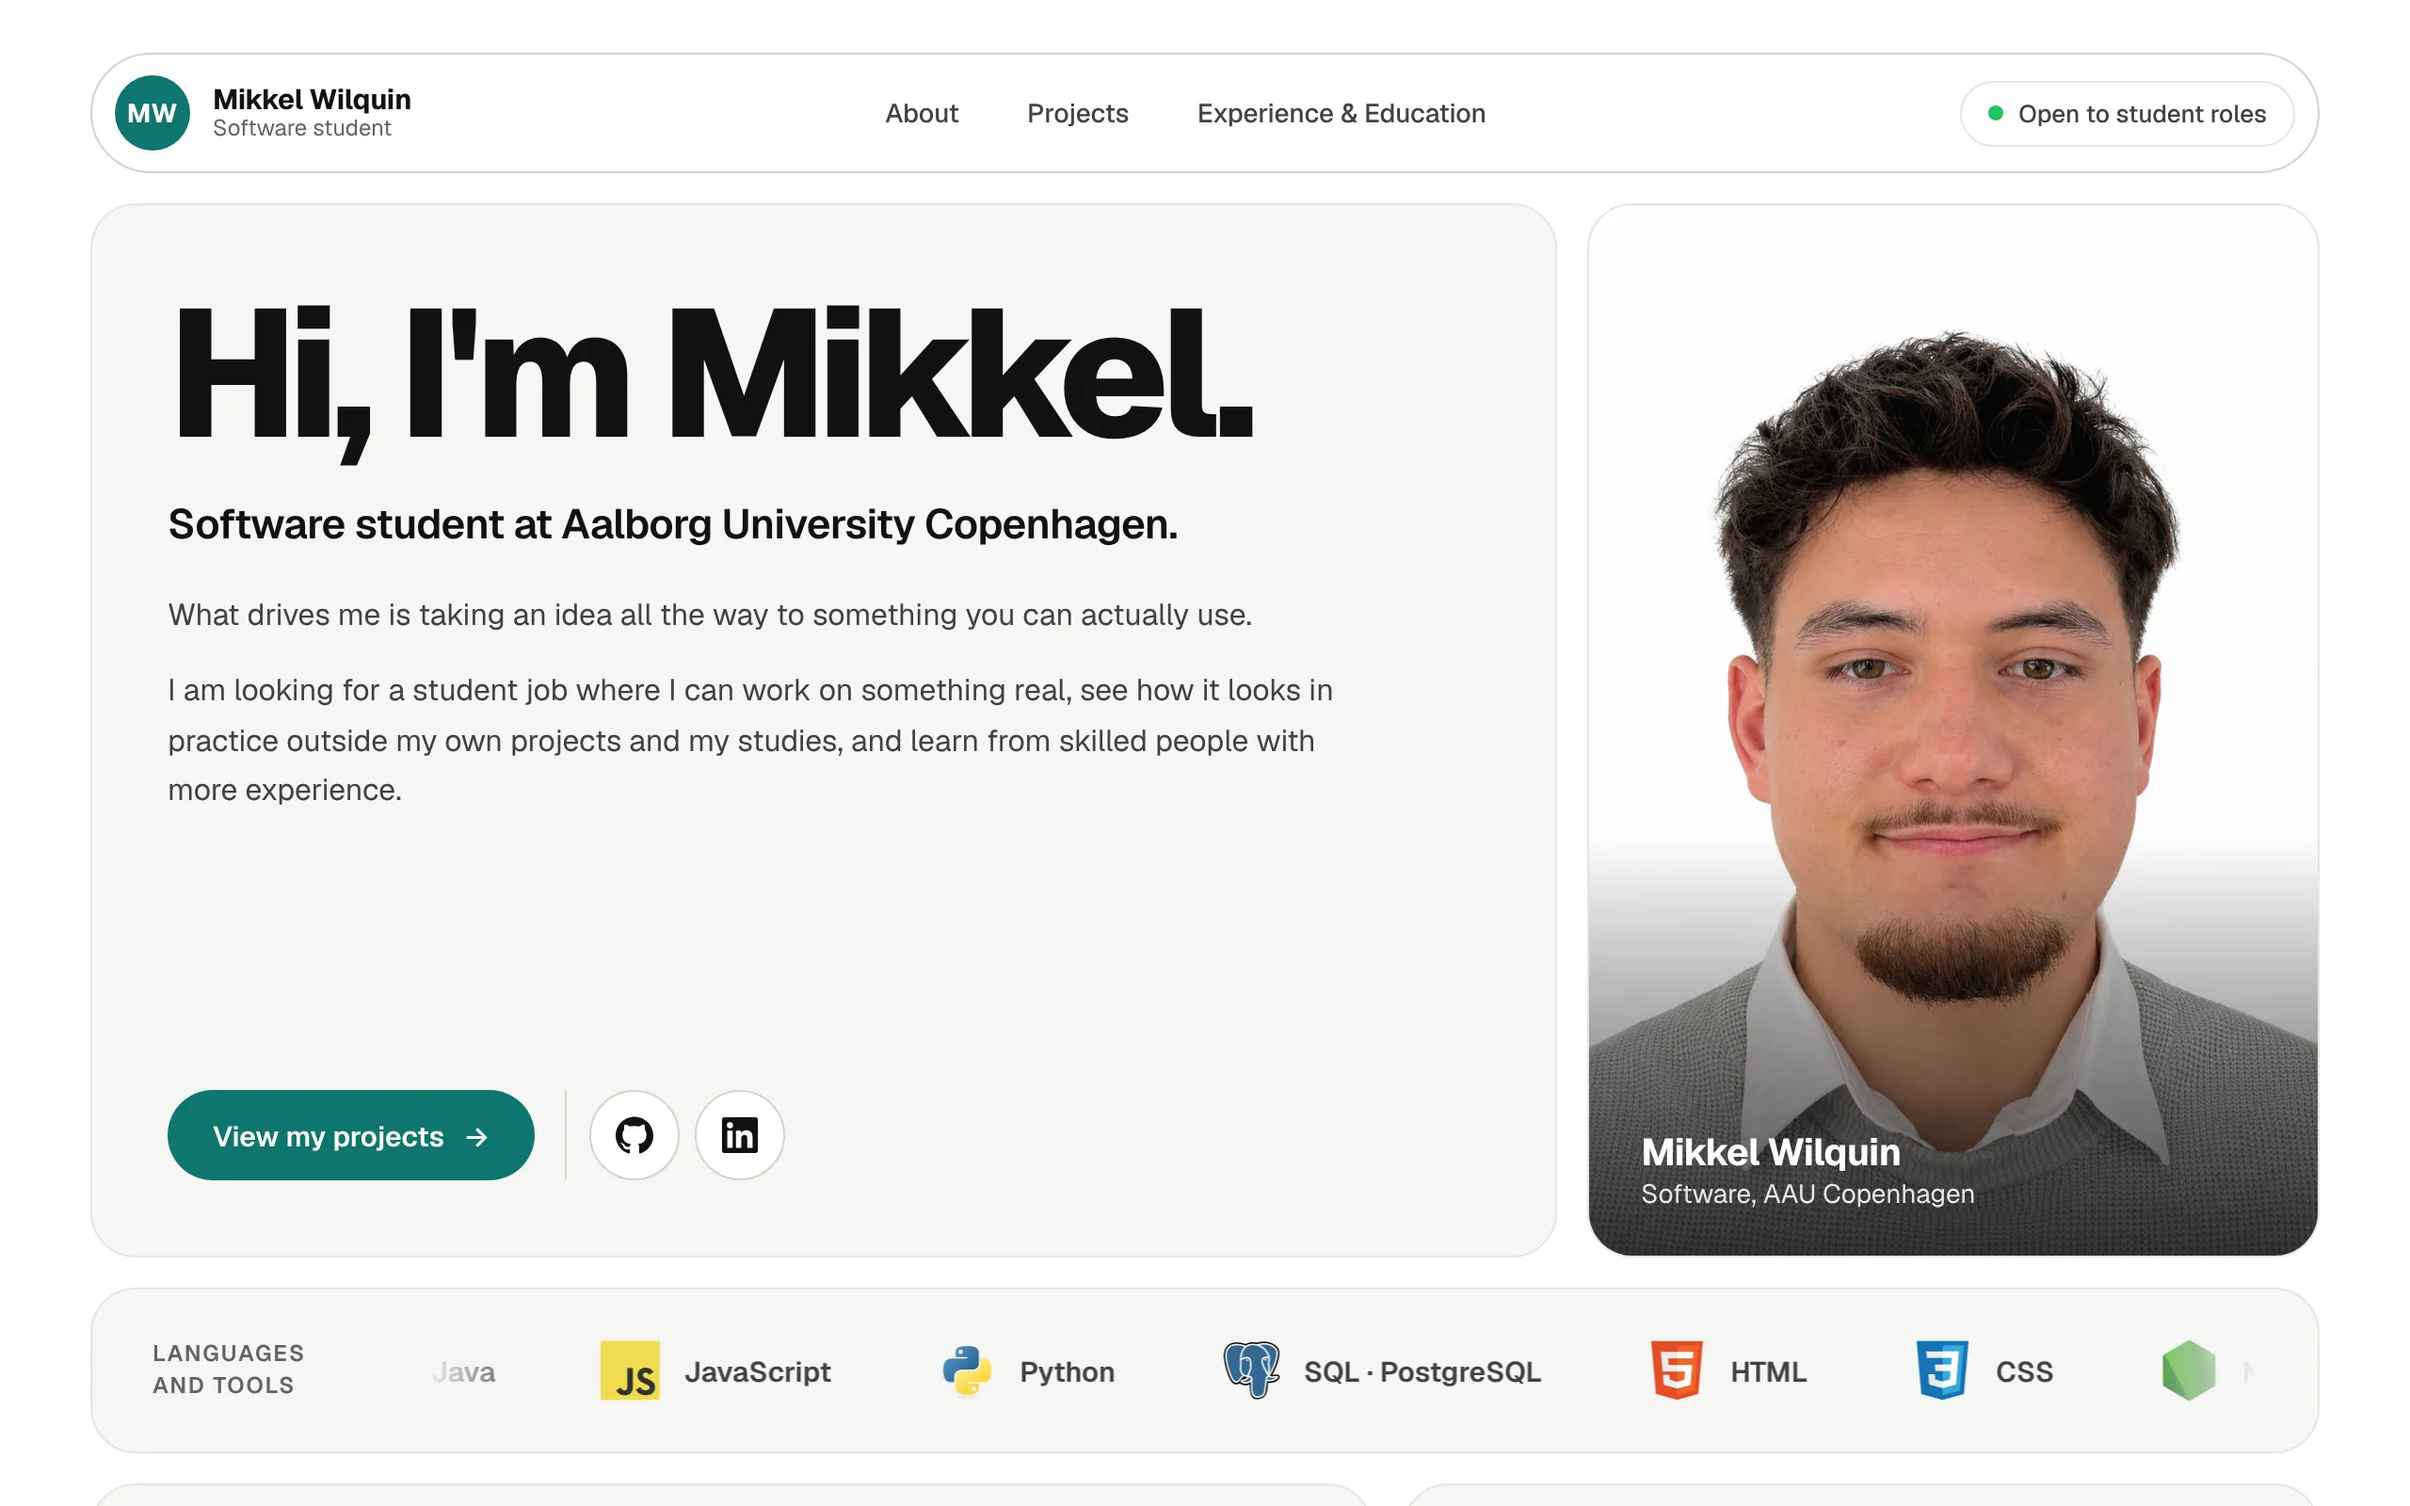
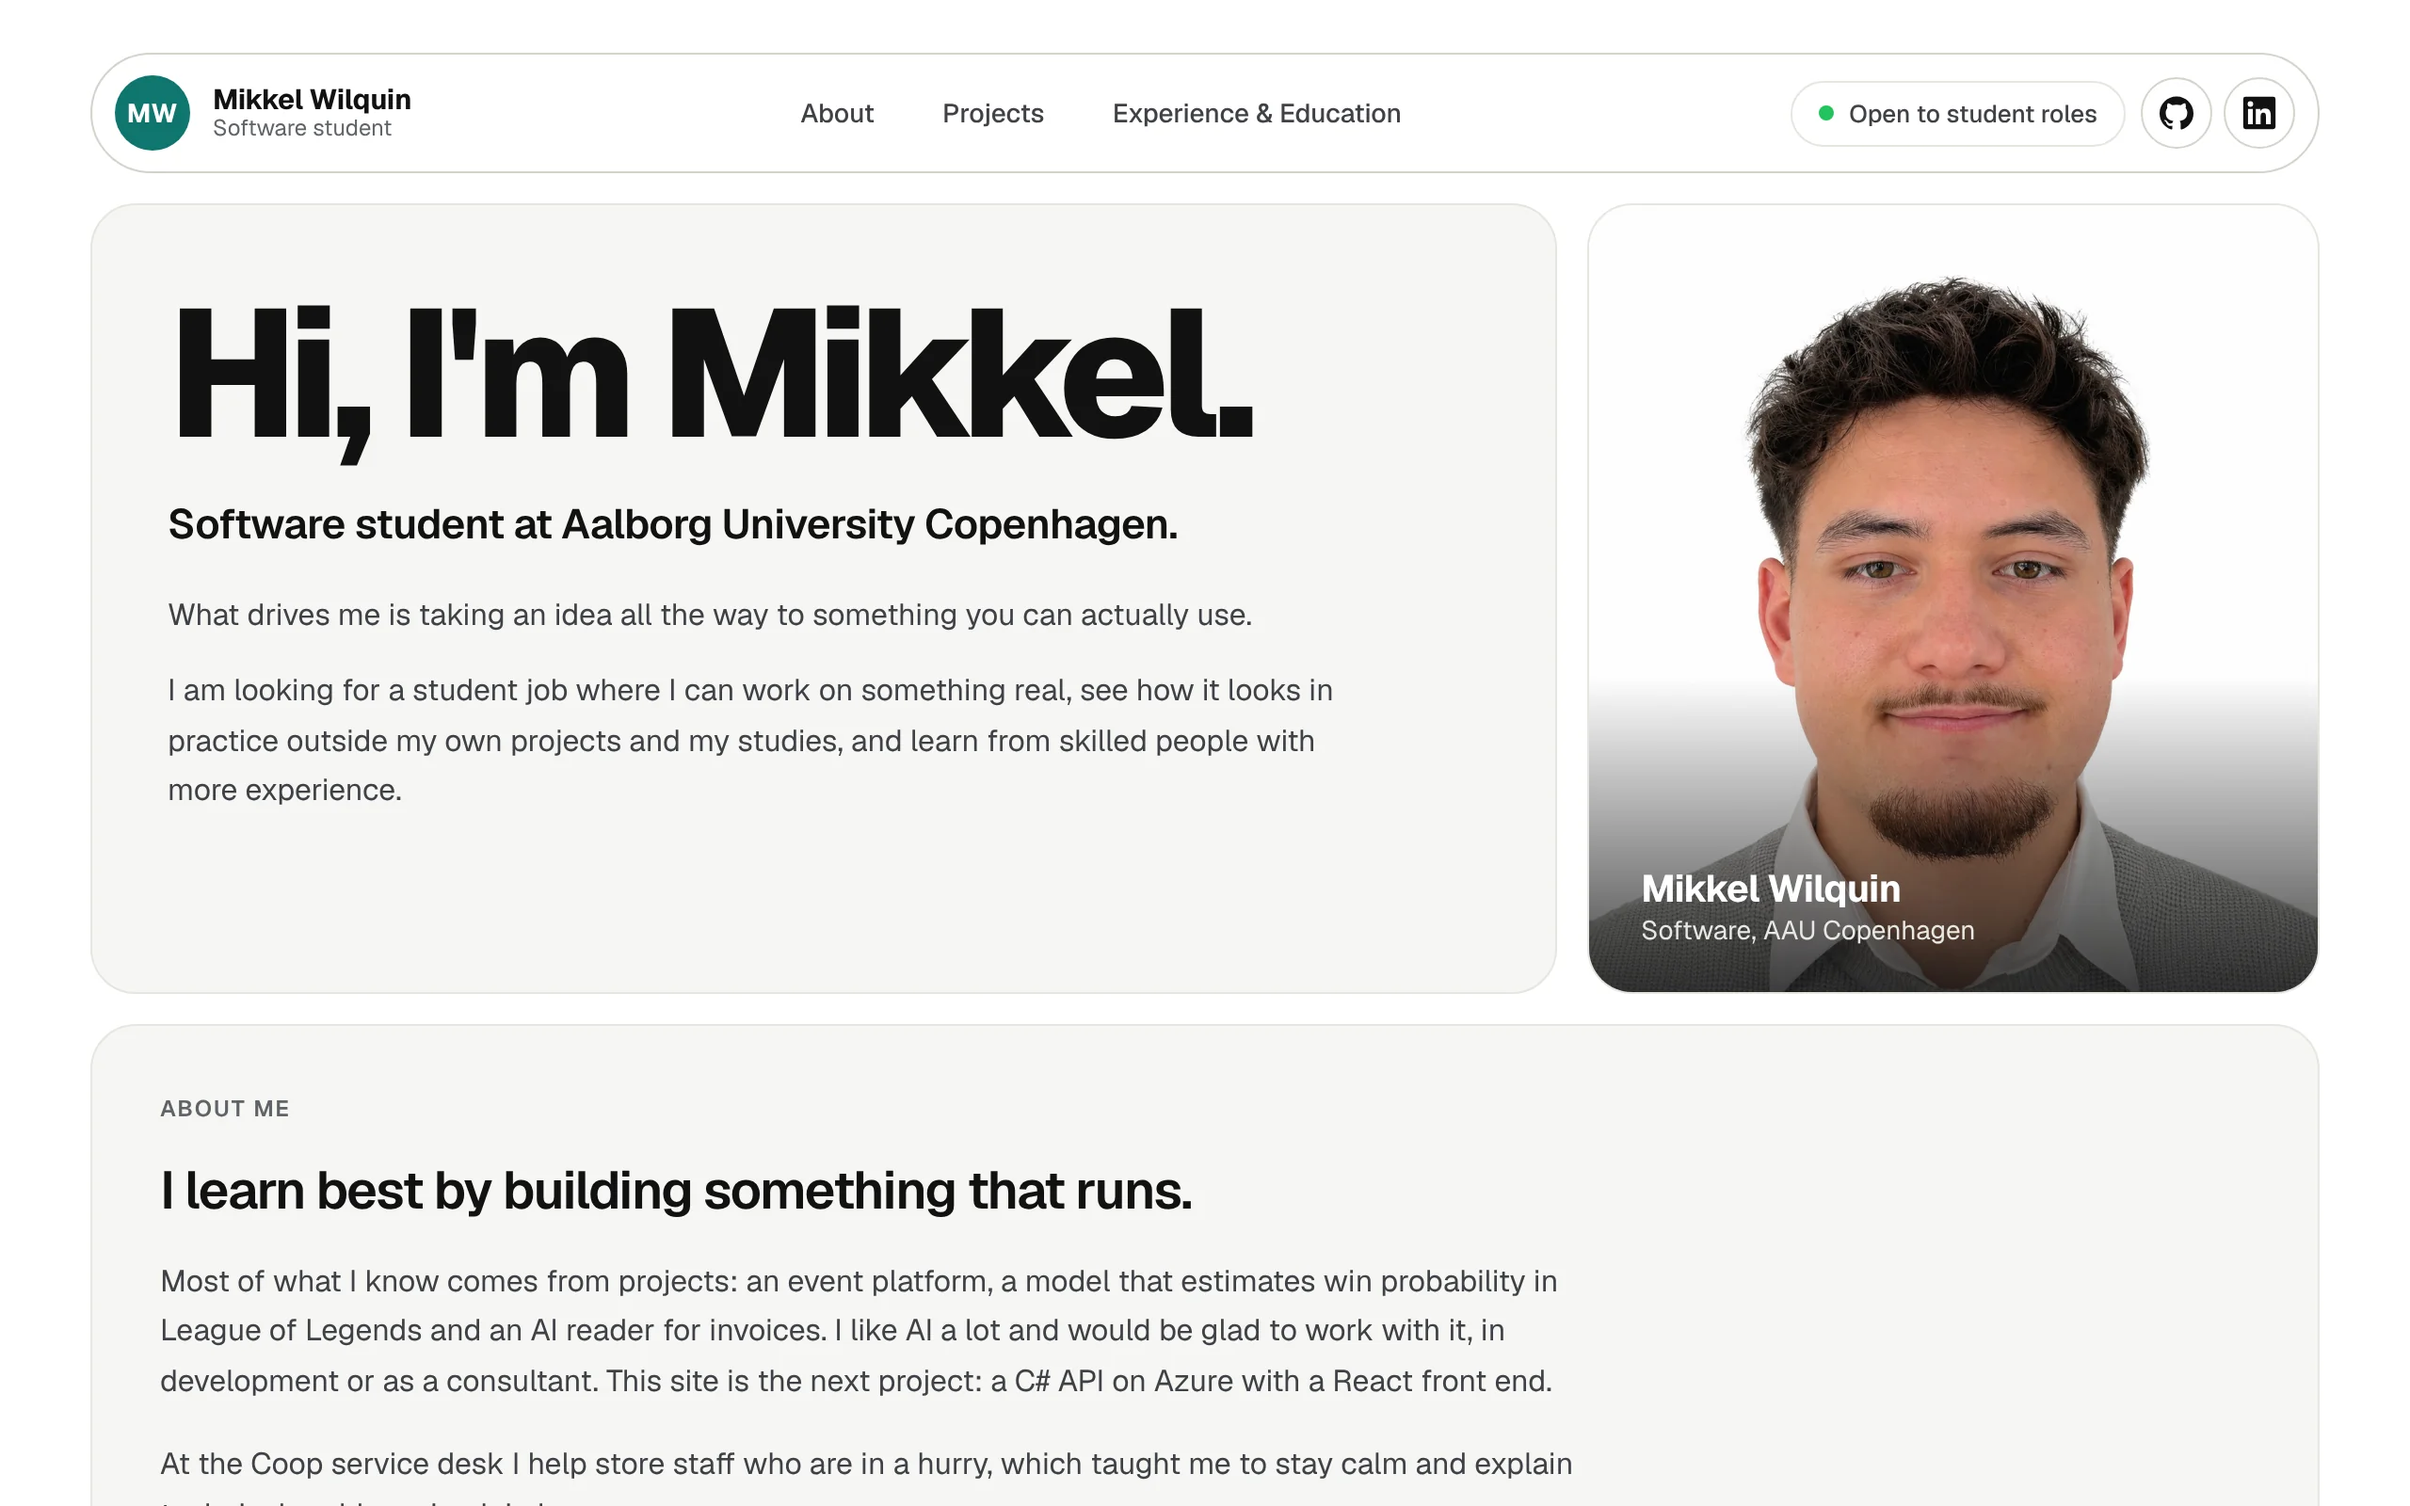
GitHub and LinkedIn in the header, remove the hero buttons

diff --git a/portfolio-web/src/components/Hero.jsx b/portfolio-web/src/components/Hero.jsx
@@ -11,17 +11,6 @@ function Hero(){
                     <p>What drives me is taking an idea all the way to something you can actually use.</p>
                     <p>I am looking for a student job where I can work on something real, see how it looks in practice outside my own projects and my studies, and learn from skilled people with more experience.</p>
                 </div>
-                <div className = "hero-actions">
-                    <a className="hero-primary" href="#projects">View my projects <span aria-hidden="true">→</span></a>
-                    <div className="hero-social">
-                        <a href="https://github.com/lwmikkel" target="_blank" rel="noreferrer" aria-label="GitHub" title="GitHub">
-                            <svg viewBox="0 0 24 24" width="20" height="20" fill="currentColor" aria-hidden="true"><path d="M12 .297c-6.63 0-12 5.373-12 12 0 5.303 3.438 9.8 8.205 11.385.6.113.82-.258.82-.577 0-.285-.01-1.04-.015-2.04-3.338.724-4.042-1.61-4.042-1.61C4.422 18.07 3.633 17.7 3.633 17.7c-1.087-.744.084-.729.084-.729 1.205.084 1.838 1.236 1.838 1.236 1.07 1.835 2.809 1.305 3.495.998.108-.776.417-1.305.76-1.605-2.665-.3-5.466-1.332-5.466-5.93 0-1.31.465-2.38 1.235-3.22-.135-.303-.54-1.523.105-3.176 0 0 1.005-.322 3.3 1.23.96-.267 1.98-.399 3-.405 1.02.006 2.04.138 3 .405 2.28-1.552 3.285-1.23 3.285-1.23.645 1.653.24 2.873.12 3.176.765.84 1.23 1.91 1.23 3.22 0 4.61-2.805 5.625-5.475 5.92.42.36.81 1.096.81 2.22 0 1.606-.015 2.896-.015 3.286 0 .315.21.69.825.57C20.565 22.092 24 17.592 24 12.297c0-6.627-5.373-12-12-12" /></svg>
-                        </a>
-                        <a href="https://www.linkedin.com/in/mikkel-wilquin-742a66248/" target="_blank" rel="noreferrer" aria-label="LinkedIn" title="LinkedIn">
-                            <svg viewBox="0 0 128 128" width="20" height="20" fill="currentColor" aria-hidden="true"><path d="M116 3H12a8.91 8.91 0 00-9 8.8v104.42a8.91 8.91 0 009 8.78h104a8.93 8.93 0 009-8.81V11.77A8.93 8.93 0 00116 3zM39.17 107H21.06V48.73h18.11zm-9-66.21a10.5 10.5 0 1110.49-10.5 10.5 10.5 0 01-10.54 10.48zM107 107H88.89V78.65c0-6.75-.12-15.44-9.41-15.44s-10.87 7.36-10.87 15V107H50.53V48.73h17.36v8h.24c2.42-4.58 8.32-9.41 17.13-9.41C103.6 47.28 107 59.35 107 75z" /></svg>
-                        </a>
-                    </div>
-                </div>
             </div>
             <div className="hero-photo">
                 <img src={portrait} alt="Portrait of Mikkel Wilquin" />

diff --git a/portfolio-web/src/components/Header.jsx b/portfolio-web/src/components/Header.jsx
@@ -66,7 +66,13 @@ function Header() {
         ))}
       </nav>
 
-      <span className="header-status">Open to student roles</span>
+      <div className="header-right">
+        <span className="header-status">Open to student roles</span>
+        <div className="header-social">
+          <a href="https://github.com/lwmikkel" target="_blank" rel="noreferrer" aria-label="GitHub" title="GitHub"><svg viewBox="0 0 24 24" width="18" height="18" fill="currentColor" aria-hidden="true"><path d="M12 .297c-6.63 0-12 5.373-12 12 0 5.303 3.438 9.8 8.205 11.385.6.113.82-.258.82-.577 0-.285-.01-1.04-.015-2.04-3.338.724-4.042-1.61-4.042-1.61C4.422 18.07 3.633 17.7 3.633 17.7c-1.087-.744.084-.729.084-.729 1.205.084 1.838 1.236 1.838 1.236 1.07 1.835 2.809 1.305 3.495.998.108-.776.417-1.305.76-1.605-2.665-.3-5.466-1.332-5.466-5.93 0-1.31.465-2.38 1.235-3.22-.135-.303-.54-1.523.105-3.176 0 0 1.005-.322 3.3 1.23.96-.267 1.98-.399 3-.405 1.02.006 2.04.138 3 .405 2.28-1.552 3.285-1.23 3.285-1.23.645 1.653.24 2.873.12 3.176.765.84 1.23 1.91 1.23 3.22 0 4.61-2.805 5.625-5.475 5.92.42.36.81 1.096.81 2.22 0 1.606-.015 2.896-.015 3.286 0 .315.21.69.825.57C20.565 22.092 24 17.592 24 12.297c0-6.627-5.373-12-12-12" /></svg></a>
+          <a href="https://www.linkedin.com/in/mikkel-wilquin-742a66248/" target="_blank" rel="noreferrer" aria-label="LinkedIn" title="LinkedIn"><svg viewBox="0 0 128 128" width="18" height="18" fill="currentColor" aria-hidden="true"><path d="M116 3H12a8.91 8.91 0 00-9 8.8v104.42a8.91 8.91 0 009 8.78h104a8.93 8.93 0 009-8.81V11.77A8.93 8.93 0 00116 3zM39.17 107H21.06V48.73h18.11zm-9-66.21a10.5 10.5 0 1110.49-10.5 10.5 10.5 0 01-10.54 10.48zM107 107H88.89V78.65c0-6.75-.12-15.44-9.41-15.44s-10.87 7.36-10.87 15V107H50.53V48.73h17.36v8h.24c2.42-4.58 8.32-9.41 17.13-9.41C103.6 47.28 107 59.35 107 75z" /></svg></a>
+        </div>
+      </div>
       <span className="header-progress" style={{ transform: `scaleX(${progress})` }} aria-hidden="true" />
     </header>
   )

diff --git a/portfolio-web/src/components/Hero.css b/portfolio-web/src/components/Hero.css
@@ -2,7 +2,6 @@
   display: grid;
   grid-template-columns: 2fr 1fr;
   gap: 16px;
-  min-height: 560px;
   margin: 16px 48px 0;
 }
 
@@ -52,77 +51,10 @@
   color: var(--text2);
 }
 
-.hero-actions {
-  display: flex;
-  align-items: center;
-  gap: 12px;
-  margin-top: auto;
-  padding-top: 8px;
-}
-
-.hero-primary {
-  display: inline-flex;
-  align-items: center;
-  gap: 10px;
-  height: 48px;
-  padding: 0 24px;
-  border-radius: 999px;
-  background: var(--accent);
-  color: #FFFFFF;
-  font-size: 15px;
-  font-weight: 600;
-  text-decoration: none;
-  transition: background 0.15s;
-}
-
-.hero-primary span {
-  transition: transform 0.15s;
-}
-
-.hero-primary:hover {
-  background: #0B5F58;
-}
-
-.hero-primary:hover span {
-  transform: translateX(3px);
-}
-
-.hero-social {
-  display: flex;
-  gap: 8px;
-  padding-left: 12px;
-  margin-left: 4px;
-  border-left: 1px solid var(--border-strong);
-}
-
-.hero-social a {
-  display: grid;
-  place-items: center;
-  width: 48px;
-  height: 48px;
-  border: 1px solid var(--border-strong);
-  border-radius: 50%;
-  background: var(--bg);
-  color: var(--text);
-  transition: background 0.15s, color 0.15s, border-color 0.15s;
-}
-
-.hero-social a:hover {
-  background: var(--text);
-  border-color: var(--text);
-  color: #FFFFFF;
-}
-
-.hero-primary:focus-visible,
-.hero-social a:focus-visible {
-  outline: 2px solid var(--accent);
-  outline-offset: 3px;
-}
-
 .hero-photo {
   position: relative;
   overflow: hidden;
-  min-height: 360px;
+  min-height: 420px;
 }
 
 .hero-photo img {
@@ -131,7 +63,7 @@
   width: 100%;
   height: 100%;
   object-fit: cover;
-  object-position: 50% 28%;
+  object-position: 50% 30%;
 }
 
 .hero-photo::after {
@@ -195,16 +127,5 @@
 @media (max-width: 480px) {
   .hero h1 {
     font-size: 46px;
-  }
-
-  .hero-actions {
-    flex-wrap: wrap;
-    row-gap: 12px;
-  }
-
-  .hero-social {
-    margin-left: 0;
-    padding-left: 0;
-    border-left: none;
   }
 }

diff --git a/portfolio-web/src/components/Header.css b/portfolio-web/src/components/Header.css
@@ -100,6 +100,40 @@ html {
   display: none;
 }
 
+.header-right {
+  display: flex;
+  align-items: center;
+  gap: 8px;
+}
+
+.header-social {
+  display: flex;
+  gap: 6px;
+}
+
+.header-social a {
+  display: grid;
+  place-items: center;
+  width: 38px;
+  height: 38px;
+  border: 1px solid var(--border-strong);
+  border-radius: 50%;
+  background: var(--bg);
+  color: var(--text);
+  transition: background 0.15s, color 0.15s, border-color 0.15s;
+}
+
+.header-social a:hover {
+  background: var(--text);
+  border-color: var(--text);
+  color: #FFFFFF;
+}
+
+.header-social a:focus-visible {
+  outline: 2px solid var(--accent);
+  outline-offset: 2px;
+}
+
 .header-status {
   display: inline-flex;
   align-items: center;
@@ -152,6 +186,15 @@ html {
     gap: 8px;
   }
 
+  .header-right {
+    margin-left: auto;
+  }
+
+  .header-social a {
+    width: 34px;
+    height: 34px;
+  }
+
   .header-nav {
     gap: 0;
   }
@@ -167,5 +210,26 @@ html {
 
   .nav-short {
     display: inline;
+  }
+}
+
+@media (max-width: 440px) {
+  .header-nav a {
+    padding: 8px 8px;
+  }
+
+  .header-social {
+    gap: 4px;
+  }
+
+  .header-social a {
+    width: 32px;
+    height: 32px;
+  }
+}
+
+@media (max-width: 380px) {
+  .header-brand {
+    display: none;
   }
 }

diff --git a/portfolio-web/src/intro/config.js b/portfolio-web/src/intro/config.js
@@ -37,9 +37,9 @@ export const COPY = {
   placeholderMobile: 'Pick a topic or tap a logo',
 }
 
-// Where the main button of your front page sits in the 1280x800 screenshot (page pixels).
-// The robot's cursor clicks exactly there. Change it if you move the button.
-export const SITE_BUTTON = { x: 187, y: 603 }
+// Where the robot's cursor clicks in the 1280x800 screenshot (page pixels).
+// Change it if you move things on your front page.
+export const SITE_BUTTON = { x: 376, y: 199 }
 
 // Idle wandering and walking (seconds). The wandering loops forever until the visitor picks something.
 export const WALK = { lead: 1.2, move: 2.4, pause: 1.1, step: 0.6, speed: 230 }
